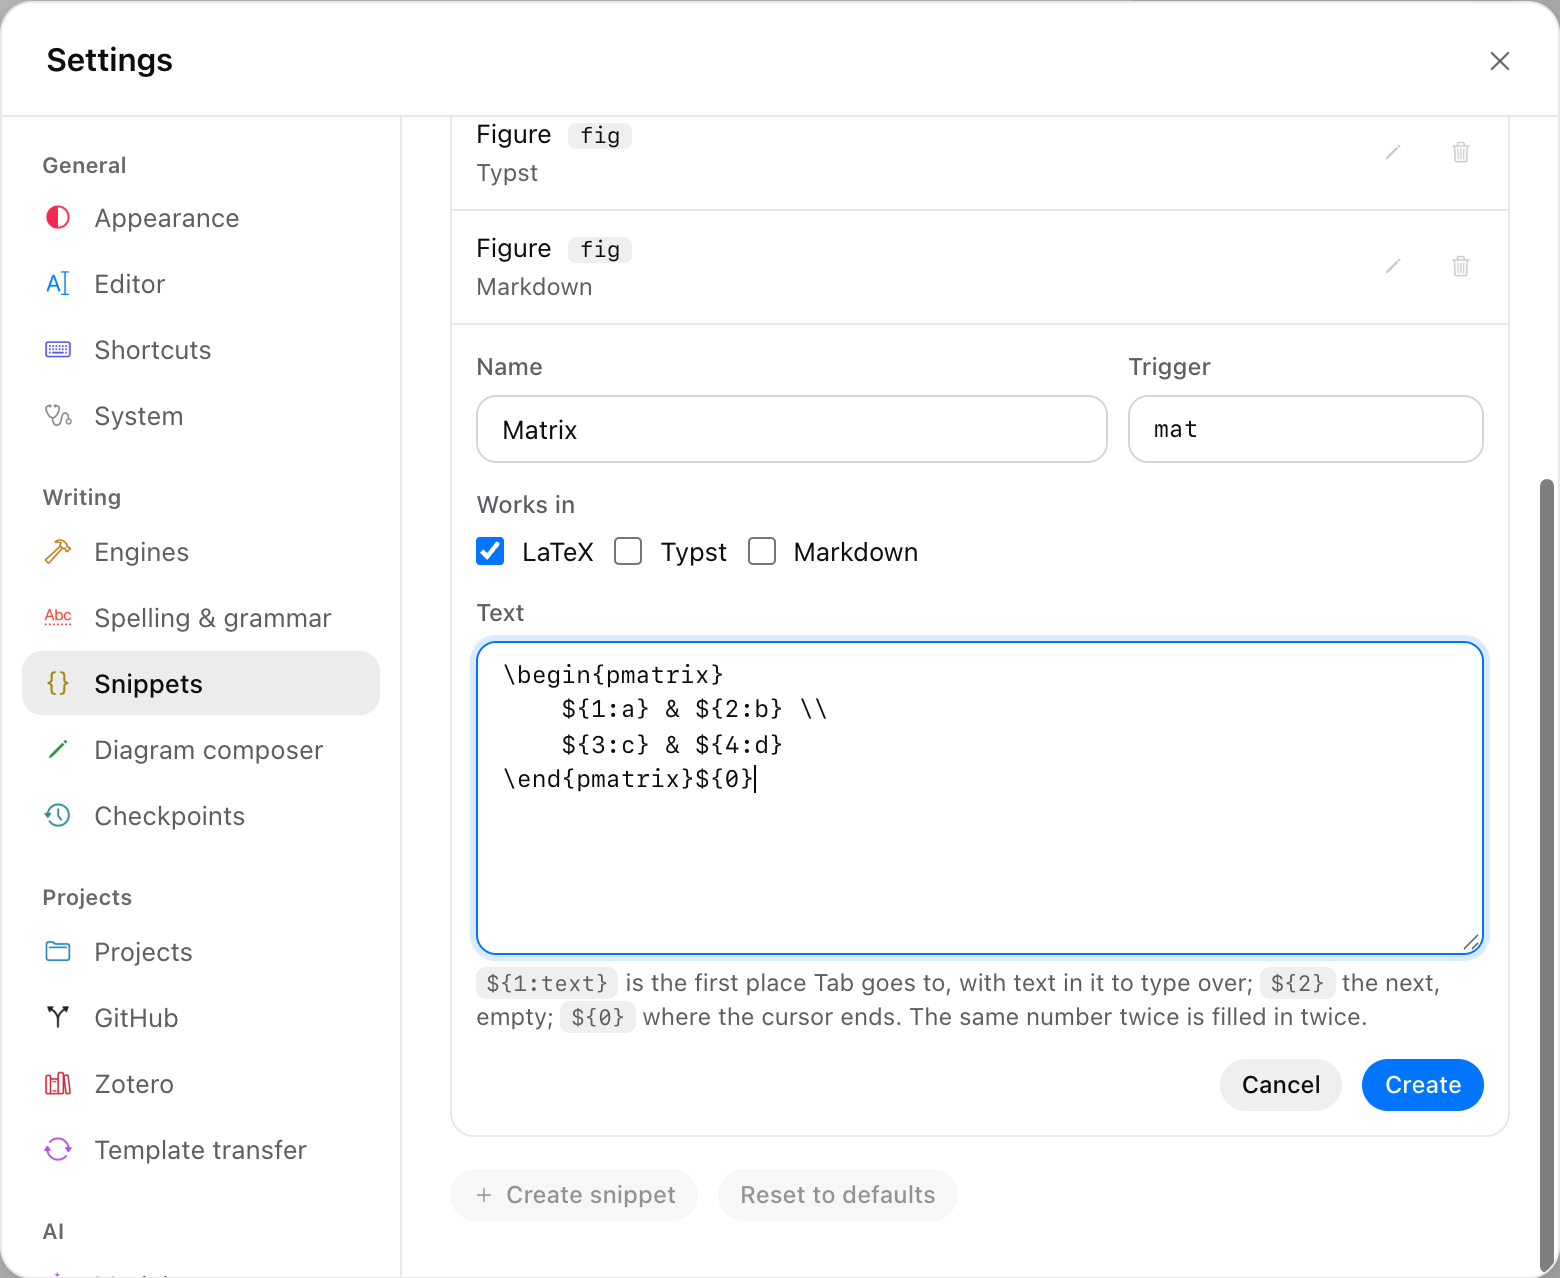
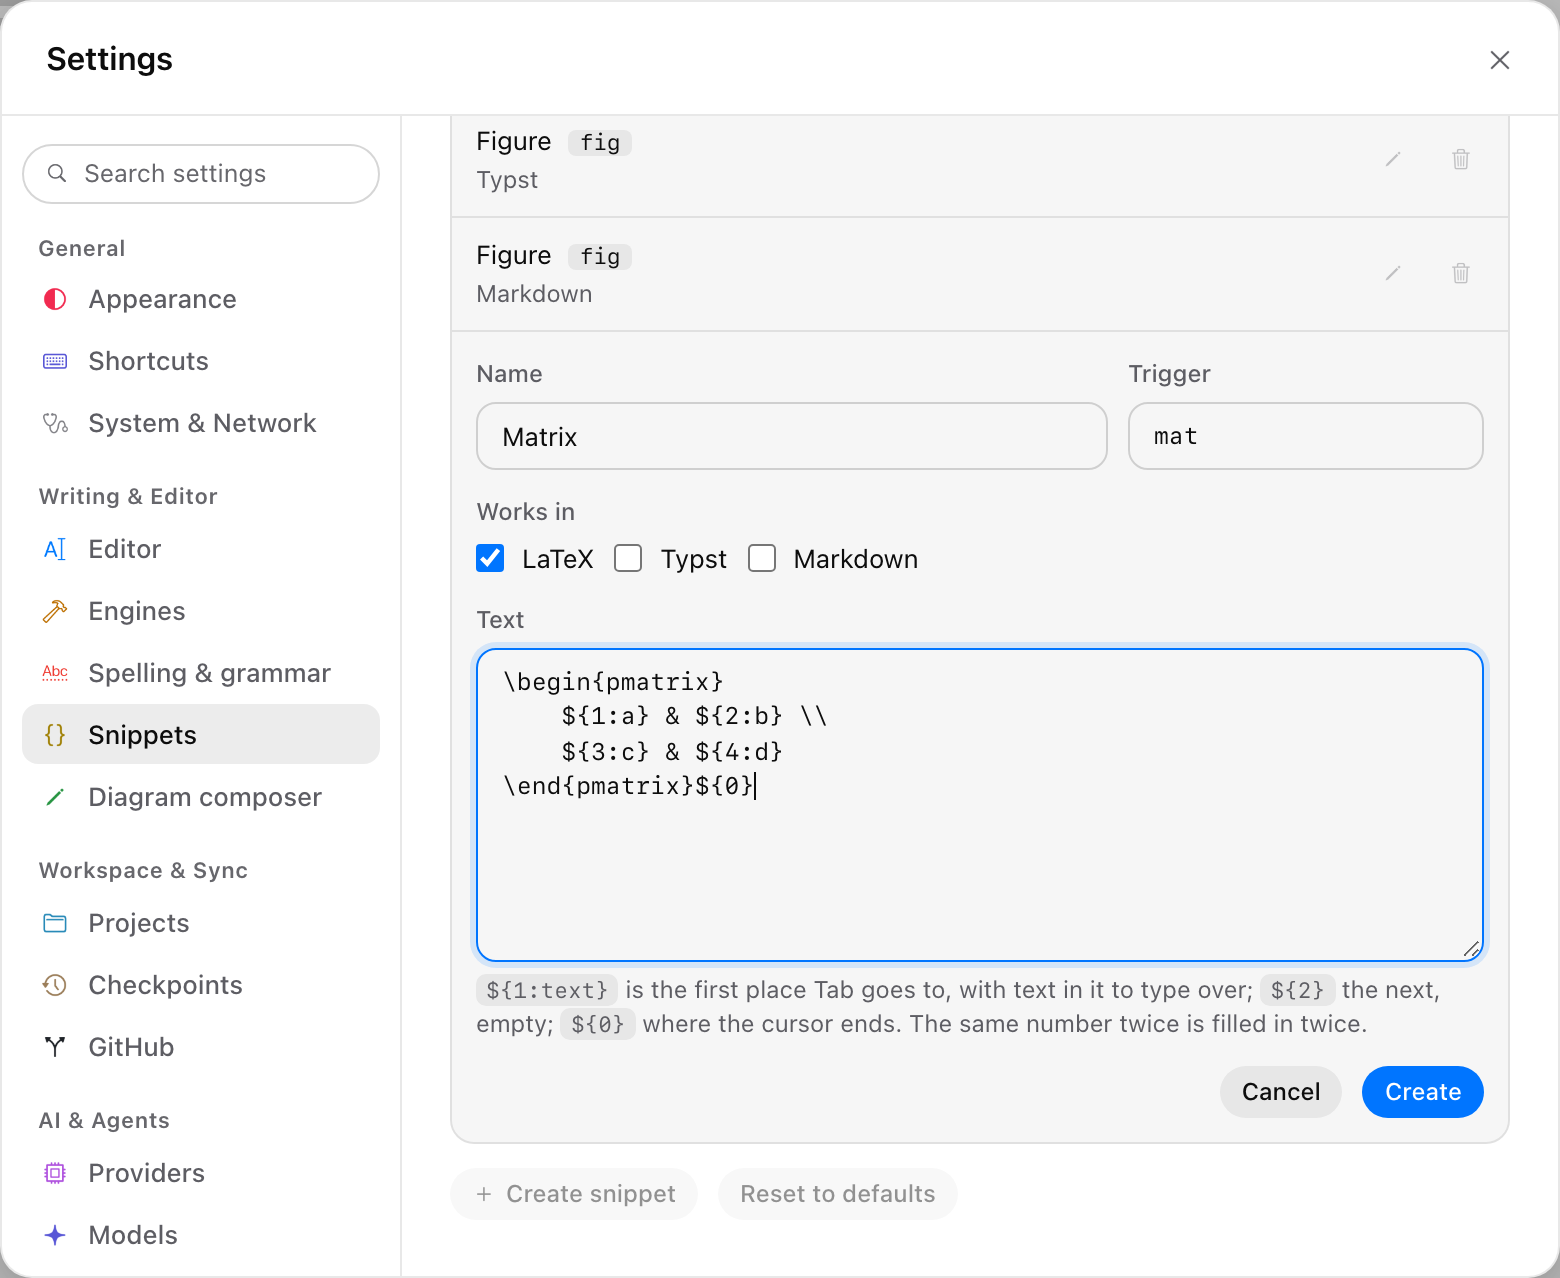
Settings: what the mock-up left out stays, handbook pictures retaken
A role's model note and full hint, the model a test did not find, the names a
custom server listed, and an unreachable Ollama said on its folded heading.
A second custom endpoint starts empty and never takes the first one's key.

diff --git a/apps/frontend/src/app/ModelsPane.tsx b/apps/frontend/src/app/ModelsPane.tsx
@@ -176,7 +176,8 @@ function ProviderModels({
           <Icon name="chevron.right" className="acc-chev" />
           <ProviderMark id={conn.id} />
           <span className="acc-name">{name}</span>
-          <span className="acc-meta">{rows.length ? `${on} of ${rows.length} enabled` : 'No list'}</span>
+          {/* said on the heading too, so it shows while the section is folded */}
+          <span className={`acc-meta ${live.error ? 'error' : ''}`}>{live.error ? 'Can’t be reached' : rows.length ? `${on} of ${rows.length} enabled` : 'No list'}</span>
         </button>
         {live.preset?.live && <button className="btn small ghost" aria-label={`Refresh ${name}’s models`} onClick={live.refresh}>Refresh</button>}
       </div>
@@ -230,8 +231,8 @@ function ProviderModels({
 }
 
 const ROLE_TEXT: Record<ModelRole, [name: string, use: string]> = {
-  quick: ['Quick (autocomplete & references)', 'Listed models think as little as they allow, so it stays quick.'],
-  vision: ['Vision (images & layout check)', 'For image → LaTeX and the layout check in template transfer.']
+  quick: ['Quick (autocomplete & references)', 'For autocomplete and for splitting pasted references. Listed models think as little as they allow; other servers use their own default.'],
+  vision: ['Vision (images & layout check)', 'For image → LaTeX and the layout check in template transfer, with the model’s recommended effort.']
 };
 
 /**
@@ -281,9 +282,10 @@ export default function ModelsPane({
           `${i}|${m.id}`,
           <>
             <ProviderMark id={conn.id} />
-            {/* the provider's name in the menu; its mark alone on the button */}
-            {multi && <span className="role-provider">{connectionName(conn)} · </span>}
-            {`${m.label}${m.id === recommended ? ' (recommended)' : ''}`}
+            {/* the provider's name and “recommended” in the menu; on the button the mark and the model alone */}
+            {multi && <span className="role-extra">{connectionName(conn)} · </span>}
+            {m.label}
+            {m.id === recommended && <span className="role-extra"> (recommended)</span>}
           </>
         ]);
     });
@@ -319,9 +321,7 @@ export default function ModelsPane({
                 ? 'The main model reads text only, so choose a model that reads images.'
                 : typed
                   ? `Type the model’s name exactly as ${multi ? connectionName(at.conn) : 'the provider'} lists it.`
-                  : at.model && !picked
-                    ? 'Listed by the provider. Spectrum has no notes on this model.'
-                    : use}
+                  : [picked?.note ? `${picked.note}.` : at.model && !picked ? 'Listed by the provider. Spectrum has no notes on this model.' : '', use].filter(Boolean).join(' ')}
             </div>
           </div>
           <Select
@@ -342,6 +342,8 @@ export default function ModelsPane({
             <input
               className="input"
               aria-label={`${name} model name${multi ? `, on ${connectionName(at.conn)}` : ''}`}
+              // a server of the user's own: the names it listed when tested, to choose from
+              list={`settings-${role}Model-list`}
               value={at.model}
               placeholder={same ? settings.llmModel || 'Same as main model' : 'Model name'}
               spellCheck={false}
@@ -350,6 +352,7 @@ export default function ModelsPane({
               autoComplete="off"
               onChange={(e) => update({ [f.model]: e.target.value })}
             />
+            <datalist id={`settings-${role}Model-list`}>{rowsOf(at.conn).filter((m) => !m.known).map((m) => <option key={m.id} value={m.id} />)}</datalist>
           </div>
         )}
       </div>

diff --git a/apps/frontend/src/app/providerCards.ts b/apps/frontend/src/app/providerCards.ts
@@ -73,7 +73,8 @@ export function connectionName(conn: Connection) {
 /** The card a provider gets while it is being connected, before it has a key: nothing is stored until one is typed. */
 export const draftConnection = (settings: AppSettings, preset: ProviderPreset | null): Connection => {
   const id = preset?.id || CUSTOM;
-  return { at: `saved:${id}`, id, preset, endpoint: text(settings.providerSaved[id]?.endpoint) || preset?.endpoint || '', key: '', uses: [] };
+  // a custom endpoint starts empty: what is kept under Other is a server already shown, or one that left
+  return { at: `saved:${id}`, id, preset, endpoint: preset ? text(settings.providerSaved[id]?.endpoint) || preset.endpoint : '', key: '', uses: [] };
 };
 
 /**
@@ -118,8 +119,10 @@ export function credsPatch(settings: AppSettings, providers: ProviderPreset[], c
     if (change.endpoint !== undefined) Object.assign(patch, { [f.endpoint]: change.endpoint, [f.provider]: settings[f.provider] || conn.id });
     if (change.key !== undefined) Object.assign(patch, { [f.apiKey]: change.key });
   }
-  const saved = settings.providerSaved[conn.id];
-  if (!onMain && conn.id !== main && (conn.at.startsWith('saved:') || (saved && hostOf(text(saved.endpoint)) === host))) {
+  // what is kept for this provider counts only at this connection's host: a key never follows to another address
+  const kept = settings.providerSaved[conn.id];
+  const saved = kept && hostOf(text(kept.endpoint)) === host ? kept : undefined;
+  if (!onMain && conn.id !== main && (conn.at.startsWith('saved:') || saved)) {
     patch.providerSaved = {
       ...settings.providerSaved,
       [conn.id]: { model: text(saved?.model), key: change.key ?? (text(saved?.key) || conn.key), endpoint: change.endpoint ?? (text(saved?.endpoint) || conn.endpoint) }

diff --git a/apps/frontend/src/app/SettingsSheet.tsx b/apps/frontend/src/app/SettingsSheet.tsx
@@ -161,6 +161,13 @@ export default function SettingsSheet({ onClose, projectId, section: start = 'ap
     then();
   };
   const go = (value: Section) => value !== section && leave(() => (setSection(value), setLicences(false)));
+  // the list is longer than the sheet: the pane showing is kept in sight, and each pane starts at its top
+  const nav = useRef<HTMLElement>(null);
+  const body = useRef<HTMLDivElement>(null);
+  useEffect(() => {
+    nav.current?.querySelector('.nav-row.active')?.scrollIntoView({ block: 'nearest' });
+    if (body.current) body.current.scrollTop = 0;
+  }, [section]);
   const [check, setCheck] = useState<SystemCheck | null>(null);
   const [checkError, setCheckError] = useState('');
   const [licences, setLicences] = useState(false);
@@ -256,7 +263,7 @@ export default function SettingsSheet({ onClose, projectId, section: start = 'ap
   return (
     <Sheet title="Settings" onClose={() => leave(onClose)} width={780} className="settings-sheet">
       <div className="settings-layout">
-        <nav className="settings-nav" aria-label="Settings">
+        <nav ref={nav} className="settings-nav" aria-label="Settings">
           <label className="search-field settings-search">
             <Icon name="magnifyingglass" />
             <input
@@ -301,7 +308,7 @@ export default function SettingsSheet({ onClose, projectId, section: start = 'ap
           </div>
         </nav>
 
-        <div className="settings-pane">
+        <div ref={body} className="settings-pane">
           {section === 'appearance' && (
             <>
               <h3 className="form-section-title">Theme</h3>

diff --git a/apps/frontend/src/app/providerCards.check.ts b/apps/frontend/src/app/providerCards.check.ts
@@ -93,6 +93,17 @@ s = at(credsPatch(fresh, providers, draft, { endpoint: 'http://localhost:1234/v1
 eq(cards(s), ['main deepseek main+quick+vision key', 'saved:custom custom '], 'a custom endpoint');
 eq(ready(connections(s, providers)[1]), true, 'a local server needs no key');
 
+// a second custom endpoint, while the vision model runs on the first: it starts empty and never takes the first's key
+let two = at(credsPatch(fresh, providers, draftConnection(fresh, null), { endpoint: 'https://one.example/v1' }), fresh);
+two = at(credsPatch(two, providers, connections(two, providers)[1], { key: 'sk-one' }), two);
+two = at(roleModelPatch(two, providers, 'vision', connections(two, providers)[1], 'one-vision'), two);
+eq(cards(two), ['main deepseek main+quick key', 'vision custom vision key'], 'the vision model on a custom endpoint');
+draft = draftConnection(two, null);
+eq([draft.endpoint, draft.key], ['', ''], 'another custom endpoint starts empty');
+two = at(credsPatch(two, providers, draft, { endpoint: 'http://localhost:1234/v1' }), two);
+eq([two.providerSaved.custom, two.visionEndpoint, two.visionApiKey], [{ model: '', key: '', endpoint: 'http://localhost:1234/v1' }, 'https://one.example/v1', 'sk-one'], 'the first’s key stays with the first');
+eq(cards(two), ['main deepseek main+quick key', 'vision custom vision key', 'saved:custom custom '], 'two custom endpoints');
+
 // Disconnect forgets the key wherever it is held
 s = at(disconnectPatch(old, providers, openai), old);
 eq(['openai' in s.providerSaved, cards(s).length], [false, 3], 'a provider kept for later goes');

diff --git a/apps/frontend/src/styles/base.css b/apps/frontend/src/styles/base.css
@@ -1873,19 +1873,19 @@ button.chip.active:hover {
 }
 
 /* the controls at the right of their rows, as in a list of settings: a switch after its label, a menu beside its */
-.settings-pane > .checkbox-row:has(> input[role='switch']) {
+:is(.settings-pane, .settings-pane > .field) > .checkbox-row:has(> input[role='switch']) {
   flex-direction: row-reverse;
   justify-content: space-between;
   align-items: center;
   gap: 16px;
 }
 
-.settings-pane > .checkbox-row > span {
+:is(.settings-pane, .settings-pane > .field) > .checkbox-row > span {
   flex: 1;
   min-width: 0;
 }
 
-.settings-pane > .checkbox-row:has(> input[role='switch']) > input {
+:is(.settings-pane, .settings-pane > .field) > .checkbox-row:has(> input[role='switch']) > input {
   margin-top: 0;
 }
 
@@ -1998,7 +1998,7 @@ span.provider-mark {
   border-radius: 6px;
 }
 
-.popup-label > .role-provider {
+.popup-label > .role-extra {
   display: none;
 }
 
@@ -2196,6 +2196,10 @@ span.provider-mark {
 .acc-head.open .acc-chev {
   color: var(--accent-ink);
   transform: rotate(90deg);
+}
+
+.acc-meta.error {
+  color: var(--red-text);
 }
 
 .acc-meta {

diff --git a/apps/frontend/src/app/ProvidersPane.tsx b/apps/frontend/src/app/ProvidersPane.tsx
@@ -47,6 +47,8 @@ function ProviderRow({
   useEffect(() => setEndpoint(conn.endpoint), [conn.endpoint]);
   const commit = () => endpoint !== conn.endpoint && update(credsPatch(settings, providers, conn, { endpoint: endpoint.trim() }));
 
+  // the model that runs on it, so a test can say when the provider doesn't list it
+  const running = conn.uses.includes('main') ? settings.llmModel : conn.uses.includes('quick') ? settings.referencesModel : conn.uses.includes('vision') ? settings.visionModel : '';
   const [state, tone] = test.testing
     ? ['Testing…', '']
     : test.result
@@ -97,7 +99,7 @@ function ProviderRow({
       </div>
       {(editing || test.result) && (
         <div className="inset-more">
-          {test.result && <div className={`field-hint ${test.result.ok ? '' : 'error'}`} role="status">{testSays(test.result, '')}</div>}
+          {test.result && <div className={`field-hint ${test.result.ok ? '' : 'error'}`} role="status">{testSays(test.result, running)}</div>}
           {editing && (
             <>
               <div className="field-hint">{preset ? preset.note : CUSTOM_NOTE}</div>
